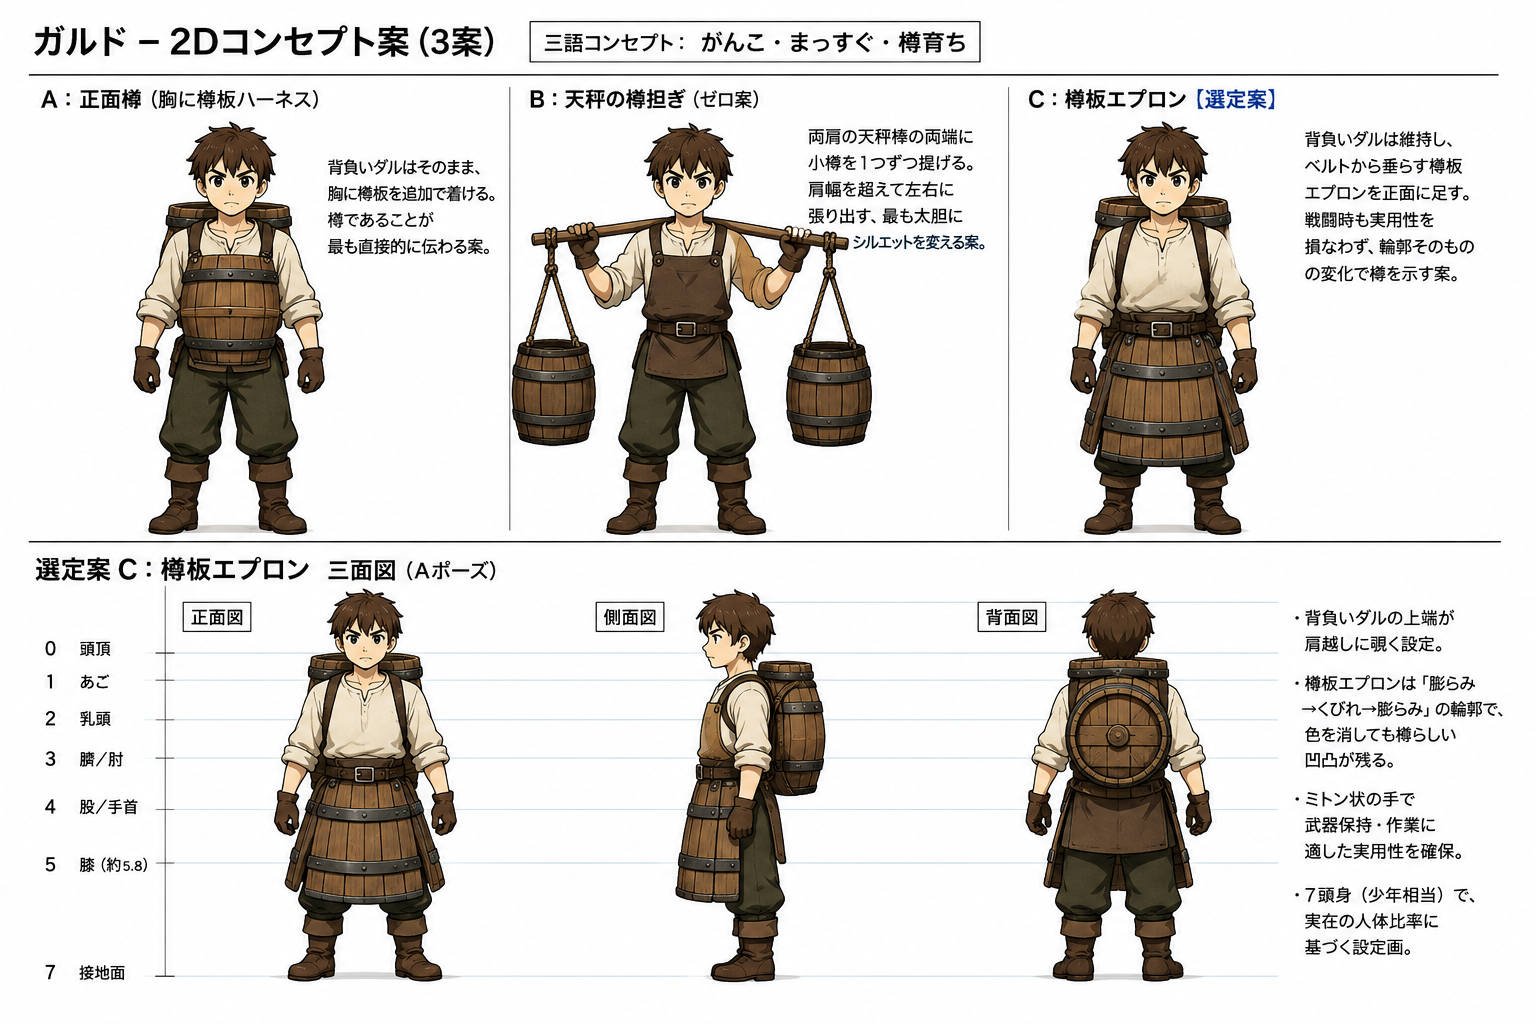
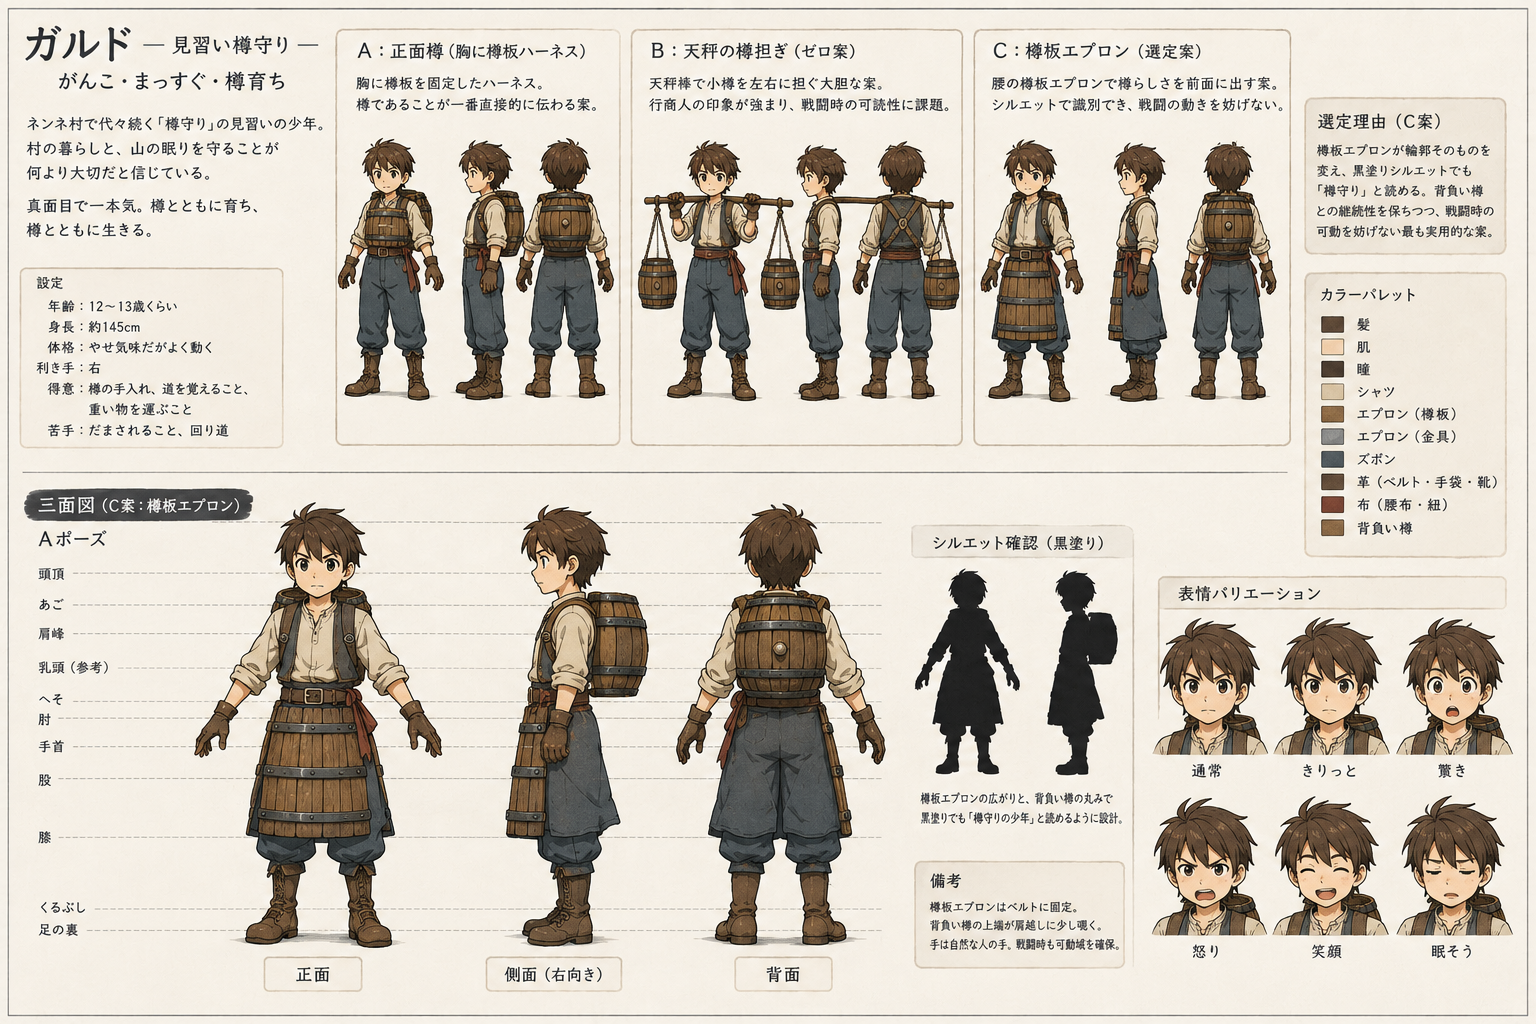
ガルドの新設定画(三面図・約5.2頭身のゲーム内比率)を取り込む (#1009)
ユーザー提供の更新版シートへ差し替え。見習い樽守り・約145cm・
選定案C(樽板エプロン)維持・背負い樽が肩越しに覗く・自然な手+
革手袋・ズボンは青灰へ変更・腰布(赤)追加。三面図はゲーム内比率
そのままなので、旧版の「7頭身写実→チビ化」の二段構えをやめ、
この図を直接の寸法源として作り直す(garudo-quality-uplift.md)。

diff --git a/design/characters/garudo/concept.md b/design/characters/garudo/concept.md
@@ -385,3 +385,21 @@ garudo-sheet.png`(1536×1024)として取り込み、**これをガルドの
 ゲーム内チビ化(約2.6頭身)、作り込み4ラウンド、ウェイト・貫通・
 歩行の品質修正済み(経緯は`plan/models/five-character-redesign-gate.md`)。
 以後の見た目の変更は、この承認状態を基準に差分で行う。
+
+## 設定画の更新(2026-09-01・ガルド品質向上)
+
+`plan/models/garudo-quality-uplift.md`(工程の欠落を塞いだうえで
+三面図からガルドを作り直す計画)に合わせ、ユーザーが新しい設定画を
+提供し、`generated/garudo-sheet.png`を差し替えた。要点:
+
+- **見習い樽守り**。12〜13歳くらい・約145cm・やせ気味だがよく動く。
+- 三面図はゲーム内比率そのまま(約5.2頭身)。旧版の
+  「7頭身写実→チビ化」の二段構えをやめ、この図を直接の寸法源とする。
+- 選定案C(樽板エプロン)を維持。背負い樽の上端が肩越しに覗く。
+  樽板エプロンはベルトに固定。手はミトンではなく**自然な人の手+革手袋**。
+- 配色更新: ズボンは深緑→**青灰**。腰布(赤)が加わる。
+  シャツ生成り・革茶・樽板+金具は従来どおり。
+- シルエット確認(黒塗り)・表情バリエーション付き。
+
+3D化はブロックアウト承認ゲート(粗い塊で3面提示→承認→ディテール)
+を経て進める。
